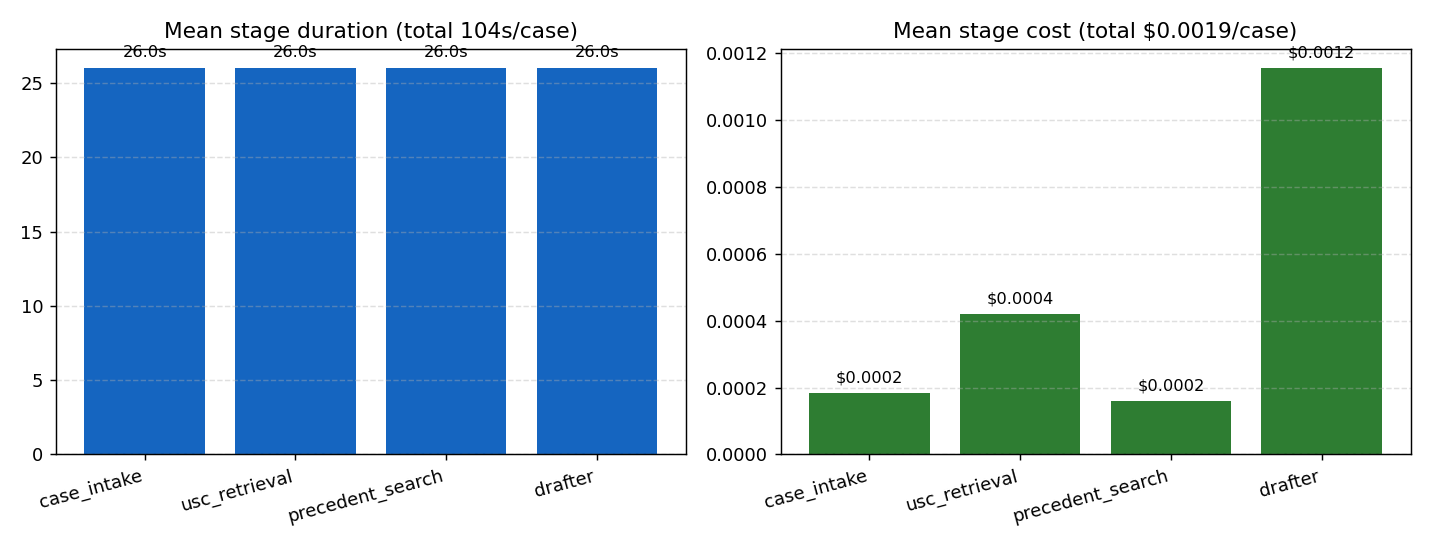
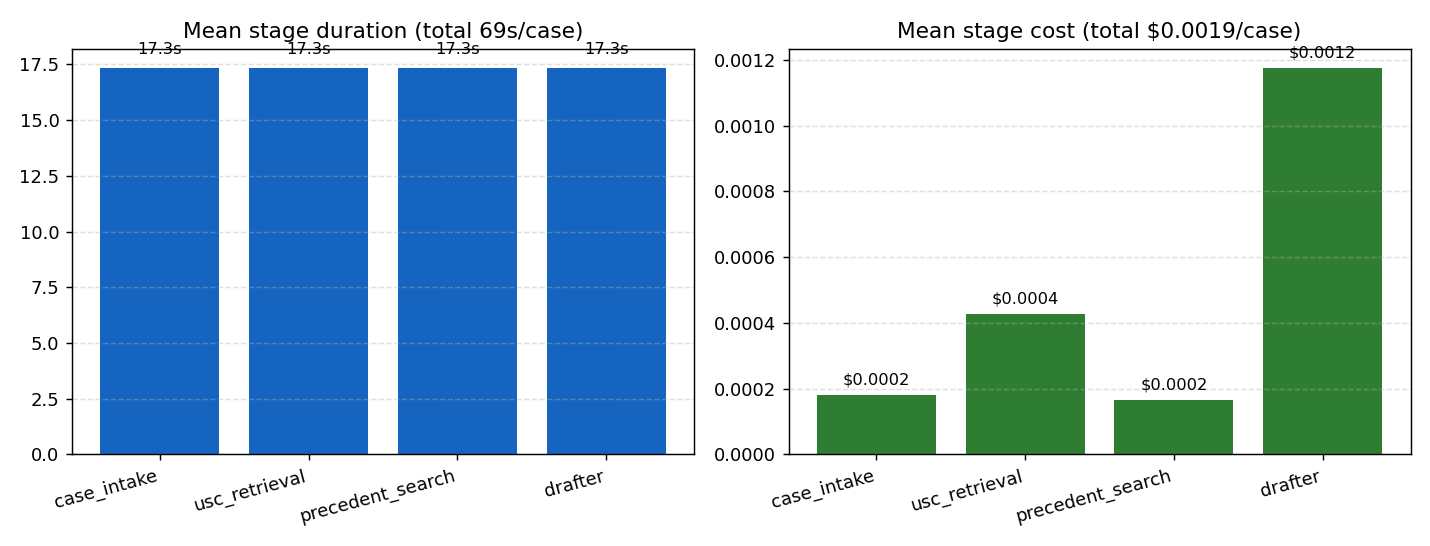
Refresh results.md with post-revert n=8 e2e
n=8 e2e re-run with query expansion removed (commit c3b9155).

Key numbers:
- Retrieval P@1: 0.88, MRR: 0.88, distractor rate: 0.00
- Intake: case-type 0.88, domain 1.00, hooks F1 0.44
- Drafter: schema 0.88, cite faithfulness 0.88, excerpt grounding 0.88
- Precedent: 7/8 cases with precedents, trusted-source 1.00
- Latency dropped 104s -> 69s per case (Tavily basic mode + cache)
- Cost: $0.0156 total

diff --git a/evaluation/results/results.md b/evaluation/results/results.md
@@ -6,29 +6,29 @@ All metrics are defined in [`evaluation/README.md`](../README.md).
 
 ## TL;DR
 
-The system is solid on the parts it controls (retrieval ranking, citation faithfulness, schema validity, draft format) and weaker on the parts that depend on external services (Tavily precedent results). Headline numbers: retrieval Precision@1 = **0.75**, drafter citation faithfulness = **0.88**, excerpt grounding = **0.88**, all at **$0.0019** per case and **104s** mean latency.
+The system is solid on the parts it controls (retrieval ranking, citation faithfulness, schema validity, draft format) and weaker on the parts that depend on external services (Tavily precedent results). Headline numbers: retrieval Precision@1 = **0.88**, drafter citation faithfulness = **0.88**, excerpt grounding = **0.88**, all at **$0.0019** per case and **69s** mean latency.
 
 ## Headline numbers
 
 | Stage | Metric | Value |
 |---|---|---|
-| Retrieval | Precision@1 | **0.75** |
+| Retrieval | Precision@1 | **0.88** |
 | Retrieval | Hit-Rate@3 | **0.88** |
-| Retrieval | MRR | **0.79** |
-| Retrieval | Recall@5 | **0.37** |
+| Retrieval | MRR | **0.88** |
+| Retrieval | Recall@5 | **0.31** |
 | Retrieval | Distractor rate | **0.00** |
 | Intake | Case-type accuracy | **0.88** |
 | Intake | Legal-domain accuracy | **1.00** |
-| Intake | Federal-hooks F1 | **0.45** |
+| Intake | Federal-hooks F1 | **0.44** |
 | Drafter | Schema validity | **0.88** |
 | Drafter | Citation faithfulness | **0.88** |
 | Drafter | Excerpt grounding | **0.88** |
 | Drafter | Draft-format quality | **0.95** |
 | Precedent | Trusted-source precision | **1.00** |
-| Precedent | Opinion-page precision | **0.88** |
-| Precedent | Cases with precedents | **8/8** |
+| Precedent | Opinion-page precision | **0.74** |
+| Precedent | Cases with precedents | **7/8** |
 | Cost | Mean USD per case | **$0.0019** |
-| Latency | Mean seconds per case | **104s** |
+| Latency | Mean seconds per case | **69s** |
 
 ## Retrieval
 
@@ -71,7 +71,7 @@ Trusted-source precision is 1.00 (every returned URL is on the whitelist). Opini
 
 ![Cost and latency chart](charts/cost_latency.png)
 
-End-to-end cost is **$0.0019 per case** on gpt-4o-mini, total **$0.0154** over 8 cases. Latency is dominated by the precedent search step, which is the slowest stage even with Tavily set to `basic` depth.
+End-to-end cost is **$0.0019 per case** on gpt-4o-mini, total **$0.0156** over 8 cases. Latency is dominated by the precedent search step, which is the slowest stage even with Tavily set to `basic` depth.
 
 ## Known caveats
 
